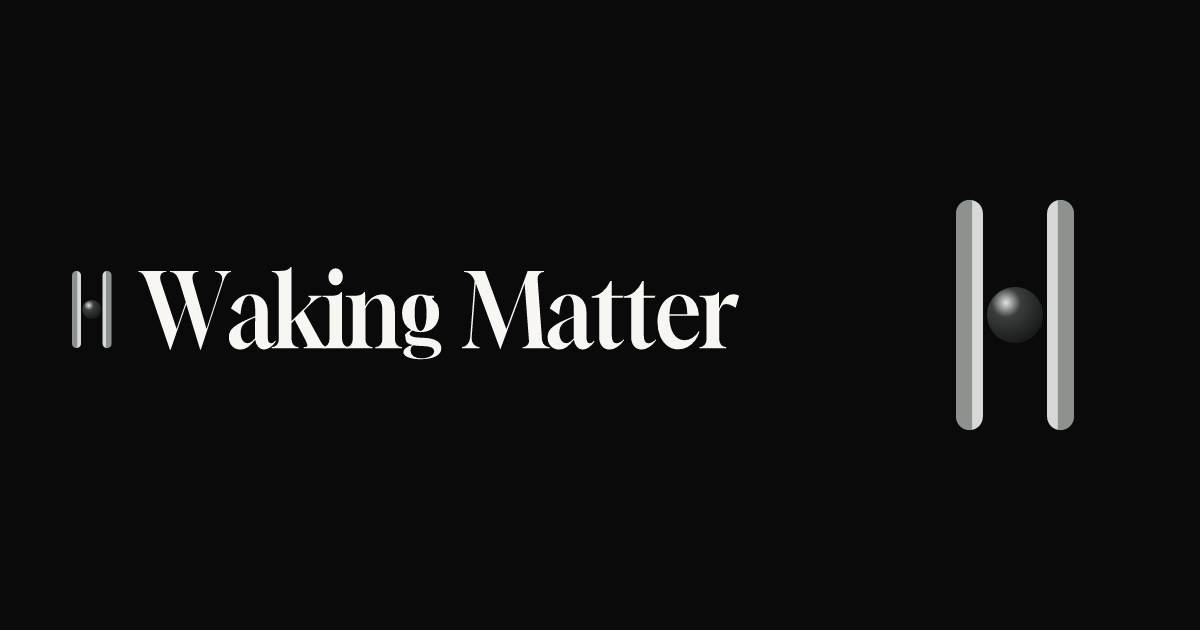
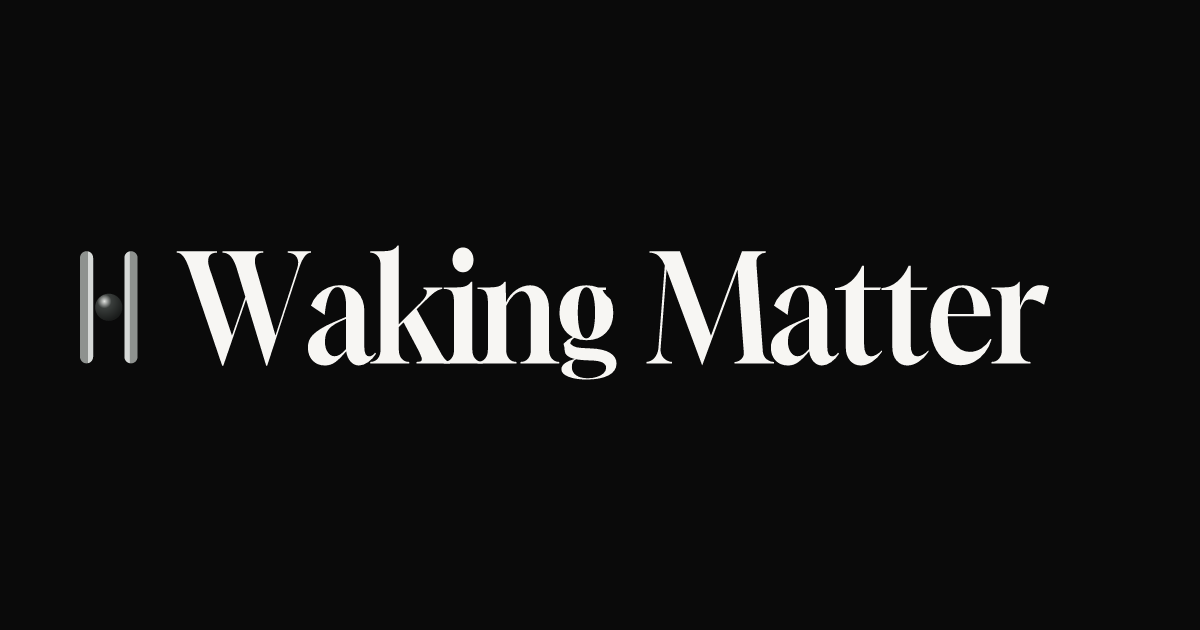
Inspect identity at 1440 and 390; air the 390 header
Give the recut lockup its own row at small widths and enlarge the
Open Graph inscription so mark and word stay one object. Critic sheet
includes home/about, header, favicon, app, and OG against Direction 04.

Changed region(s): [[0.0617, 0.3016, 0.8942, 0.6937]]

diff --git a/brand/studies/identity-apply-01/index.html b/brand/studies/identity-apply-01/index.html
@@ -89,6 +89,16 @@
       <figcaption>Header · ivory · 1440</figcaption>
     </figure>
   </div>
+  <div class="pair" style="margin-top:12px;max-width:520px">
+    <figure>
+      <div class="panel"><img src="raster/header-void-390.png" alt="Void header at 390"/></div>
+      <figcaption>Header · void · 390 · nav on its own row</figcaption>
+    </figure>
+    <figure>
+      <div class="panel"><img src="raster/header-ivory-390.png" alt="Ivory header at 390"/></div>
+      <figcaption>Header · ivory · 390</figcaption>
+    </figure>
+  </div>
 
   <h2>Favicon, small mark, social</h2>
   <div class="sz" style="display:flex;gap:12px;flex-wrap:wrap;align-items:flex-end">

diff --git a/src/styles/global.css b/src/styles/global.css
@@ -769,3 +769,23 @@ a {
     gap: 0.3rem 0.9rem;
   }
 }
+
+@media (max-width: 520px) {
+  .site-header {
+    flex-wrap: wrap;
+    align-items: center;
+    padding-top: 0.95rem;
+    padding-bottom: 0.85rem;
+    row-gap: 0.75rem;
+  }
+
+  .logo-lockup {
+    height: 1.15rem;
+  }
+
+  .nav {
+    flex: 1 1 100%;
+    justify-content: flex-start;
+    gap: 0.35rem 1.15rem;
+  }
+}

diff --git a/brand/studies/identity-apply-01/REPORT.md b/brand/studies/identity-apply-01/REPORT.md
@@ -28,4 +28,6 @@ Open [`index.html`](index.html).
 
 1440 and 390 home (void header + architectural mark) and About (ivory header). Then favicon, app icon, OG. Compare explicitly to Direction 04 (north star), 03 (grid discipline), 01 (editorial air). Borrow 02 only for cleanliness / negative space.
 
+At 390 the lockup keeps its own row and nav sits underneath — 02 air around the inscription, not extra tracking. OG is the recut lockup on void at inscription scale (no second mark, no Newsreader).
+
 Stop here.
